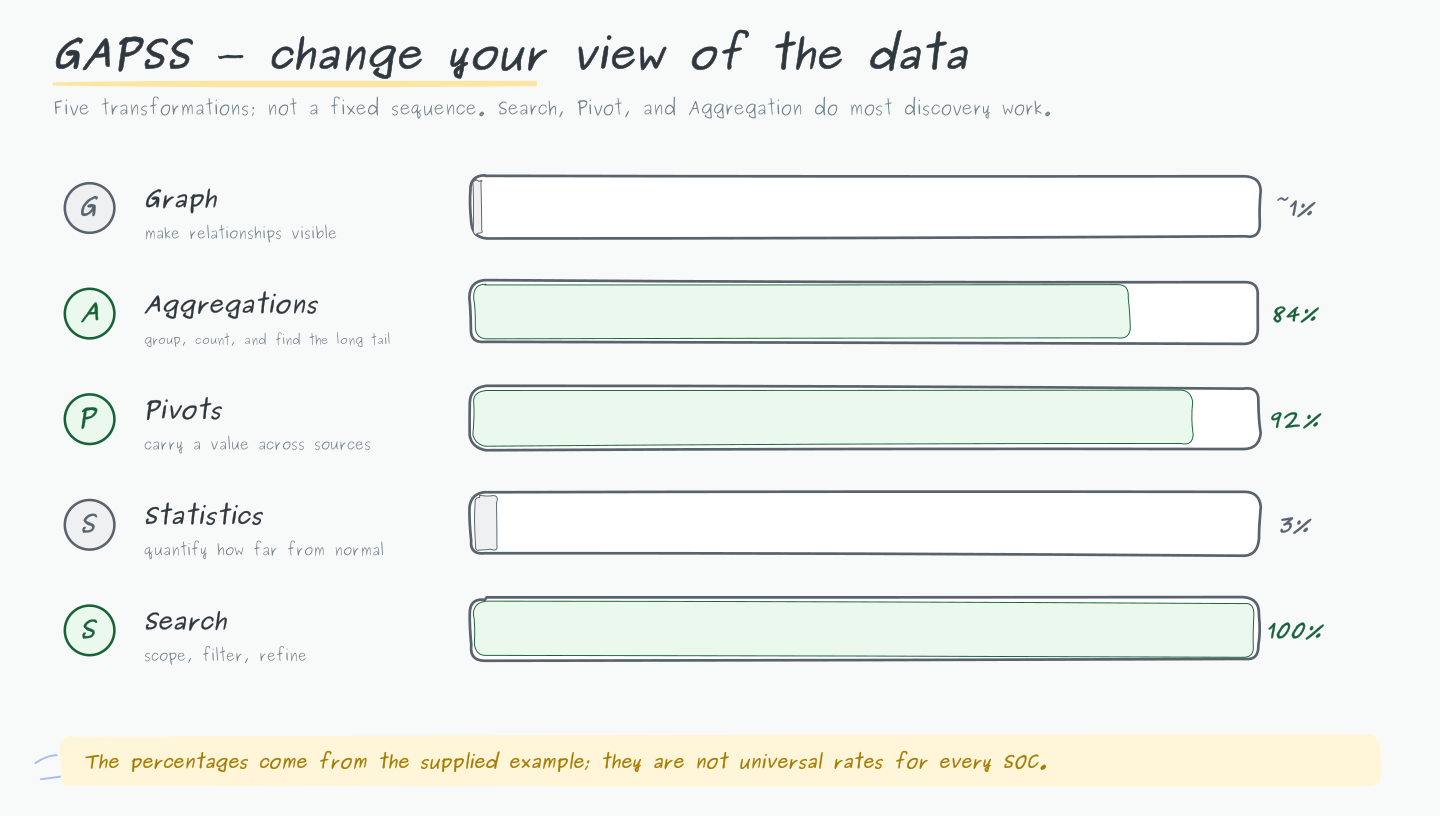
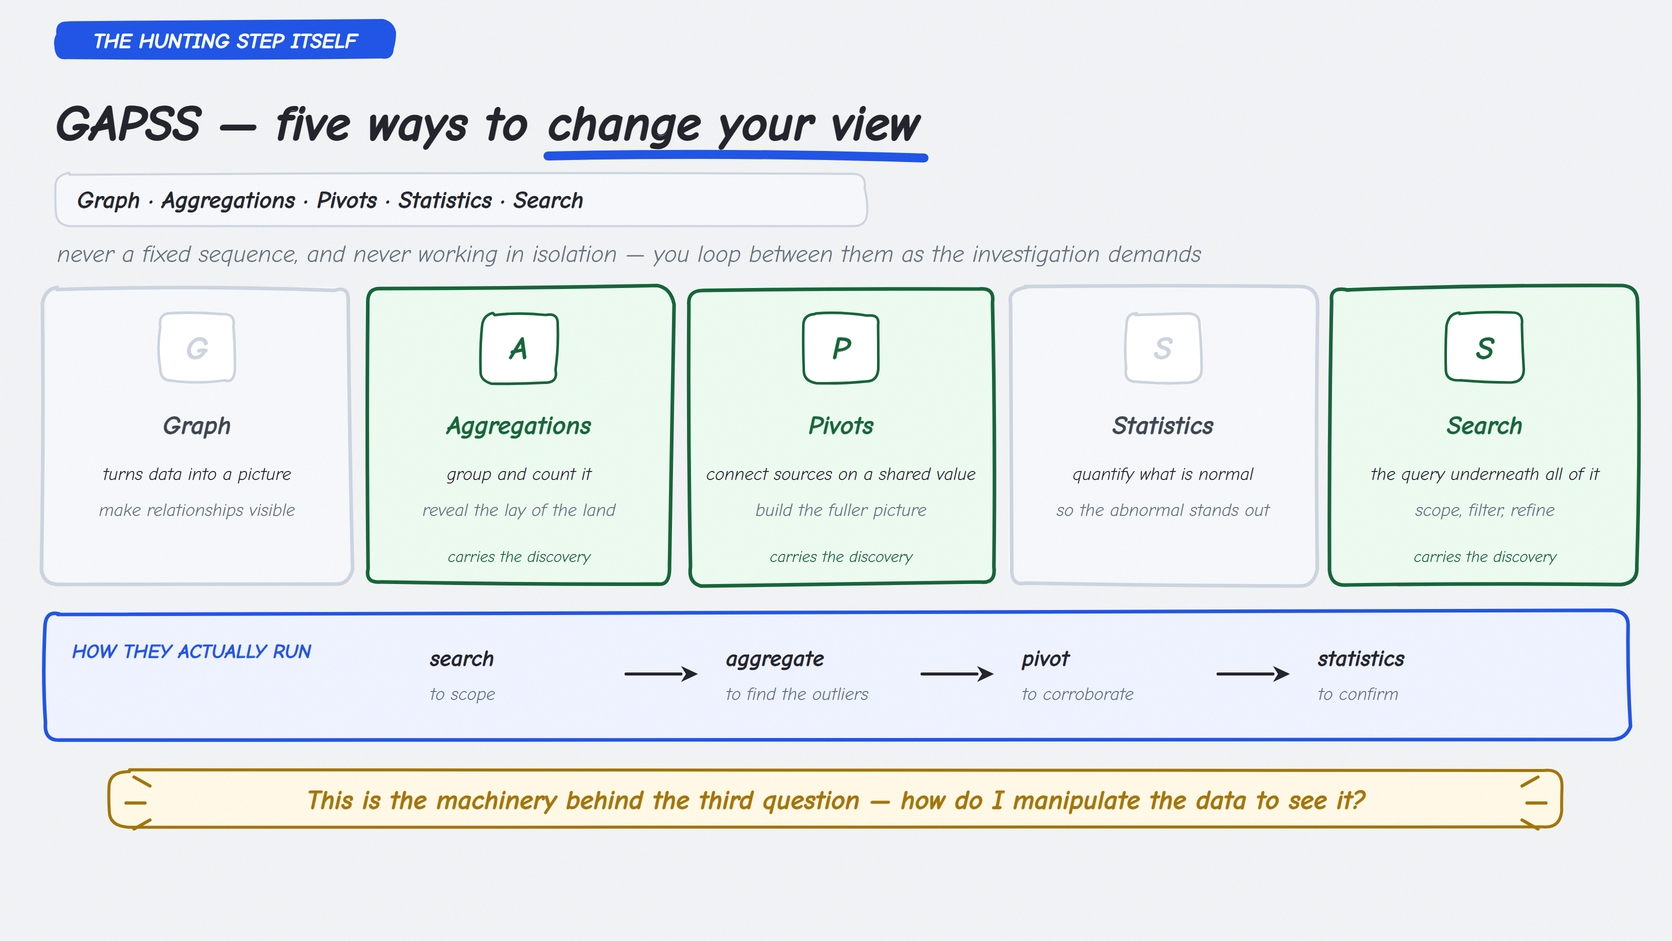
Redraw three mindset diagrams, and shorten the bio
The PCR scale, the Pyramid of Pain and the GAPSS transformations were drawn in
an older, thinner style than the rest of the blog and at roughly a tenth of
the detail: 0.05 to 0.09 bytes per pixel against the 0.9 to 1.2 the other
diagrams carry. Upscaling could not fix that, since there was no detail there
to recover, so all three are redrawn at 1672x941.

The GAPSS diagram previously carried percentages that appear nowhere in the
post and were hedged in the image itself. They are not reproduced.

The bio drops the day-to-day sentence and keeps the opening.

diff --git a/docs/about.md b/docs/about.md
@@ -14,10 +14,7 @@ hide:
     <p class="nf-profile__location">&#128205; Cairo, Egypt</p>
     <p class="nf-profile__bio">A guy who loves to learn how things work, break them down,
     and develop solutions. I turn curiosity into research, research into knowledge, and
-    knowledge into teaching others. Day to day that means hunting adversaries across
-    endpoint, identity, network and cloud telemetry, maintaining the detection library that
-    catches them, and running a threat intelligence program that tells both where to look —
-    then writing it up so other defenders can use it.</p>
+    knowledge into teaching others.</p>
     <div class="nf-profile__actions">
       <a href="https://linkedin.com/in/mohamed-hanii-0291031aa" class="nf-btn nf-btn--primary" target="_blank" rel="noopener">Connect on LinkedIn</a>
       <a href="https://github.com/N1ghtFury74" class="nf-btn nf-btn--secondary" target="_blank" rel="noopener">GitHub Profile</a>
